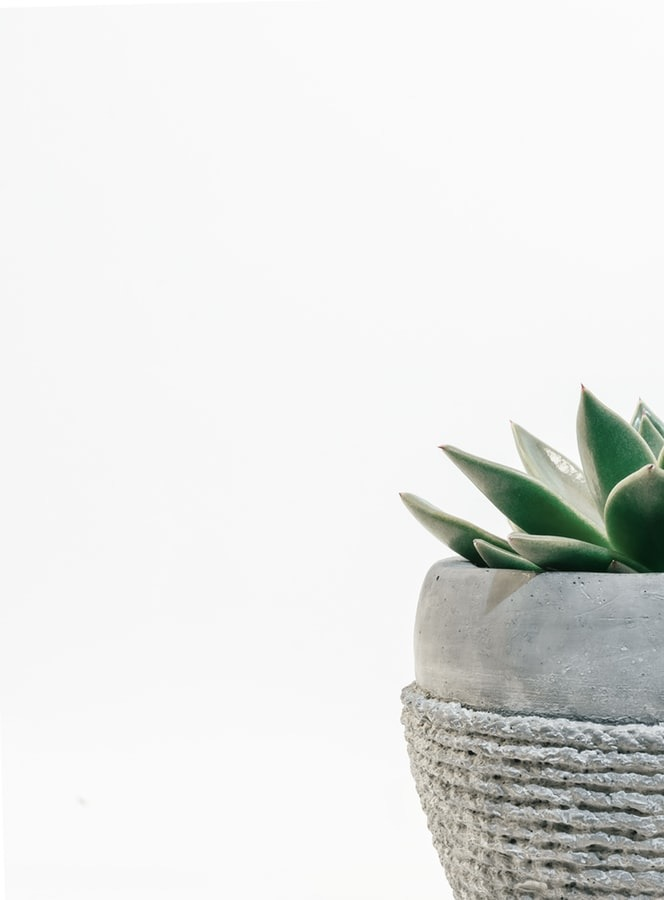
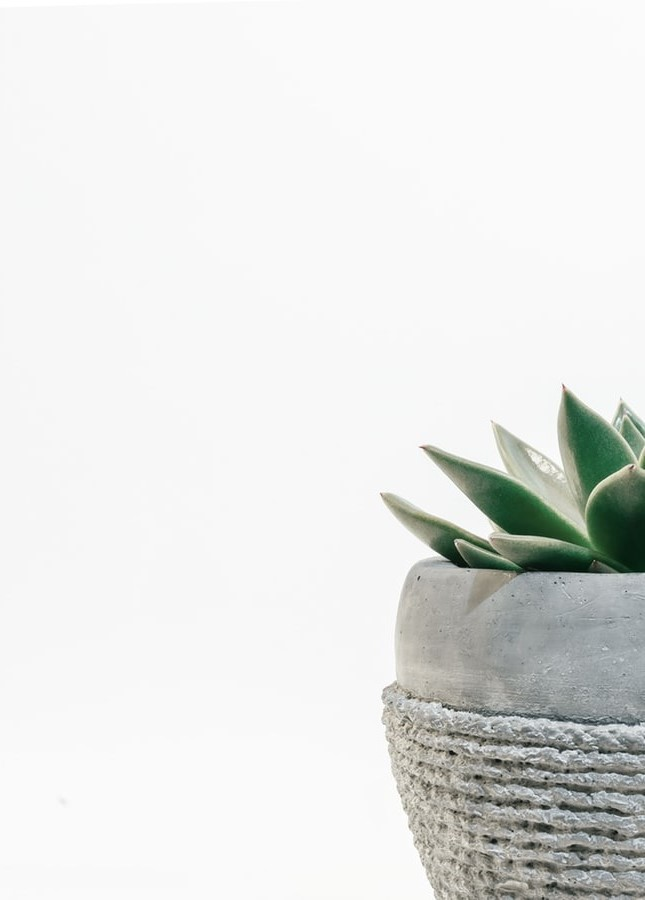
Edited background color and cropped image to remove white border, edited line margin in dashboard header

diff --git a/app/css/style.scss b/app/css/style.scss
@@ -33,7 +33,7 @@ body {
     padding: 80px;
     /*margin-top: 20%;*/
     font-family: $montserratRegular;
-    background-color: #f6f6f6;
+    background-color: rgb(248, 248, 248);
     background-image: url("../images/plantbg.jpg");
     background-repeat: no-repeat;
     background-attachment: fixed;

diff --git a/app/css/style.css b/app/css/style.css
@@ -8,7 +8,7 @@ body {
   padding: 80px;
   /*margin-top: 20%;*/
   font-family: "Montserrat", sans-serif;
-  background-color: #f6f6f6;
+  background-color: #f8f8f8;
   background-image: url("../images/plantbg.jpg");
   background-repeat: no-repeat;
   background-attachment: fixed;
